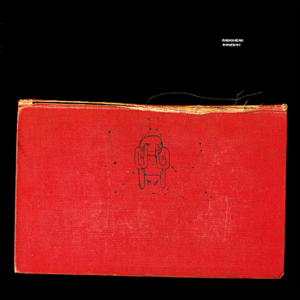
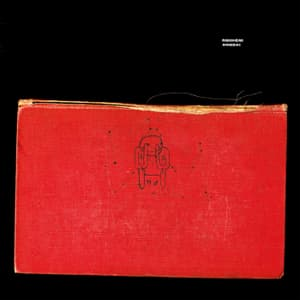
Compress images and fix validatoin errors

diff --git a/index.html b/index.html
@@ -3,7 +3,7 @@
 
 <head>
     <meta charset="UTF-8">
-    <link rel="icon" type="image/svg+xml" href="/icons/radiohead-bear.svg" />
+    <link rel="icon" type="image/svg+xml" href="/icons/radiohead-bear.svg">
     <meta name="viewport" content="width=device-width, initial-scale=1.0">
     <link rel="preconnect" href="https://rsms.me/">
     <link rel="stylesheet" href="https://rsms.me/inter/inter.css">
@@ -17,10 +17,8 @@
 
 <body>
     <div class="header">
-        <a href="/" alt="Radiohead - Home">
-            <img class="logo" src="/icons/radiohead-bear.svg" alt="Radiohead Bear Logo">
-        </a>
-        <a href="/" alt="Radiohead - Home">
+        <a href="/"><img class="logo" src="/icons/radiohead-bear.svg" alt="Radiohead Bear Logo"></a>
+        <a href="/">
             <h1 class="main-title">Radiohead</h1>
         </a>
         <nav>
@@ -57,27 +55,27 @@
         </div>
         <ul class="members-list">
             <li>
-                <img src="/images/members/thom-yorke.jpeg" alt="Thom Yorke photo" class="member-photo">
+                <img src="/images/members/thom-yorke.jpg" alt="Thom Yorke photo" class="member-photo">
                 <h3>Thom Yorke</h3>
                 <p>Lead vocals, guitar, piano</p>
             </li>
             <li>
-                <img src="/images/members/jonny-greenwood.jpeg" alt="Jonny Greenwood photo" class="member-photo">
+                <img src="/images/members/jonny-greenwood.jpg" alt="Jonny Greenwood photo" class="member-photo">
                 <h3>Jonny Greenwood</h3>
                 <p>Lead guitar, keyboards</p>
             </li>
             <li>
-                <img src="/images/members/colin-greenwood.jpeg" alt="Colin Greenwood photo" class="member-photo">
+                <img src="/images/members/colin-greenwood.jpg" alt="Colin Greenwood photo" class="member-photo">
                 <h3>Colin Greenwood</h3>
                 <p>Bass guitar</p>
             </li>
             <li>
-                <img src="/images/members/ed-obrien.jpeg" alt="Ed O'Brien photo" class="member-photo">
+                <img src="/images/members/ed-obrien.jpg" alt="Ed O'Brien photo" class="member-photo">
                 <h3>Ed O'Brien</h3>
                 <p>Guitar, backing vocals</p>
             </li>
             <li>
-                <img src="/images/members/philip-selway.jpeg" alt="Philip Selway photo" class="member-photo">
+                <img src="/images/members/philip-selway.jpg" alt="Philip Selway photo" class="member-photo">
                 <h3>Philip Selway</h3>
                 <p>Drums, percussion</p>
             </li>
@@ -95,37 +93,37 @@
                 <table class="concerts-table">
                     <thead>
                         <tr>
-                            <th aria-label="Event city">Halifax, NS</th>
-                            <th aria-label="Event city">Charlottetown, PE</th>
-                            <th aria-label="Event city">St. John's, NL</th>
-                            <th aria-label="Event city">Moncton, NB</th>
+                            <th>Halifax, NS</th>
+                            <th>Charlottetown, PE</th>
+                            <th>St. John's, NL</th>
+                            <th>Moncton, NB</th>
                         </tr>
                     </thead>
                     <tbody>
                         <tr>
-                            <td aria-label="Event data">2026-09-15</td>
-                            <td aria-label="Event data">2026-09-18</td>
-                            <td aria-label="Event data">2026-09-21</td>
-                            <td aria-label="Event data">2026-09-24</td>
+                            <td>2026-09-15</td>
+                            <td>2026-09-18</td>
+                            <td>2026-09-21</td>
+                            <td>2026-09-24</td>
                         </tr>
                         <tr>
-                            <td aria-label="Event time">19:30</td>
-                            <td aria-label="Event time">20:00</td>
-                            <td aria-label="Event time">19:00</td>
-                            <td aria-label="Event time">20:00</td>
+                            <td>19:30</td>
+                            <td>20:00</td>
+                            <td>19:00</td>
+                            <td>20:00</td>
                         </tr>
                         <tr>
-                            <td aria-label="Event location"><a href="https://maps.app.goo.gl/kUNJztBJhLATkxze7" target="_blank"
+                            <td><a href="https://maps.app.goo.gl/kUNJztBJhLATkxze7" target="_blank"
                                     rel="noopener noreferrer" aria-label="Scotiabank Centre on Google Maps">Scotiabank
                                     Centre</a></td>
-                            <td aria-label="Event location"><a href="https://maps.app.goo.gl/RAqjWvBLz9j2azwc9" target="_blank"
+                            <td><a href="https://maps.app.goo.gl/RAqjWvBLz9j2azwc9" target="_blank"
                                     rel="noopener noreferrer"
                                     aria-label="Confederation Centre of the Arts on Google Maps">Confederation Centre of
                                     the Arts</a></td>
-                            <td aria-label="Event location"><a href="https://maps.app.goo.gl/4KFdnTHrFHWLPZEh9" target="_blank"
+                            <td><a href="https://maps.app.goo.gl/4KFdnTHrFHWLPZEh9" target="_blank"
                                     rel="noopener noreferrer" aria-label="Mary Brown's Centre on Google Maps">Mary
                                     Brown's Centre</a></td>
-                            <td aria-label="Event location"><a href="https://maps.app.goo.gl/HjQAHxfVtPFt4mxD9" target="_blank"
+                            <td><a href="https://maps.app.goo.gl/HjQAHxfVtPFt4mxD9" target="_blank"
                                     rel="noopener noreferrer" aria-label="Avenir Centre on Google Maps">Avenir
                                     Centre</a></td>
                         </tr>
@@ -217,7 +215,7 @@
         <button class="prev" onclick="scrollCarousel(-1)"><img src="/icons/backward.svg" alt="Left arrow"
                 aria-hidden="true"></button>
         <button class="next" onclick="scrollCarousel(1)"><img src="/icons/forward.svg" alt="right arrow"
-                aria-hidden="tru"></button>
+                aria-hidden="true"></button>
     </div>
     <div class="contact" id="contact">
         <div class="section-header">
@@ -225,7 +223,7 @@
             <h2 class="section-title">Contact</h2>
         </div>
         <p class="contact-text">Reach out to us on <a href="https://x.com/radiohead"
-                alt="Radiohead's official X account" target="_blank" rel="noopener noreferrer">Twitter (X)</a> or at <a
+                target="_blank" rel="noopener noreferrer">Twitter (X)</a> or at <a
                 href="mailto:info@radiohead.com" target="_blank">info@radiohead.com</a></p>
 
         <div class="social-media">
@@ -236,13 +234,13 @@
                             width="25" height="25"></a></li>
                 <li><a href="https://www.facebook.com/radiohead" target="_blank" rel="noopener noreferrer"
                         aria-label="Radiohead on Facebook"><img src="/icons/facebook.png"
-                            alt="Facebook logo width=" 25" height="25"></a></li>
+                            alt="Facebook logo" width=" 25" height="25"></a></li>
                 <li><a href="https://open.spotify.com/artist/4Z8W4fKeB5YxbusRsdQVPb" target="_blank"
                         rel="noopener noreferrer" aria-label="Radiohead on Spotify"><img src="/icons/spotify.png"
                             alt="Spotify logo" width="25" height="25"></a></li>
                 <li><a href="https://www.youtube.com/user/Radiohead" target="_blank" rel="noopener noreferrer"
                         aria-label="Radiohead on YouTube"><img src="/icons/youtube.png" alt="YouTube logo"
-                            width="35" height="auto"></a></li>
+                            width="35" height="25"></a></li>
             </ul>
         </div>
     </div>

diff --git a/styles/main.css b/styles/main.css
@@ -255,12 +255,7 @@ a {
   opacity: 0.8;
 }
 
-.carousel-track::-webkit-scrollbar {
-  display: none;
-}
-
 .carousel-track {
-  -ms-overflow-style: none;
   scrollbar-width: none;
 }
 
